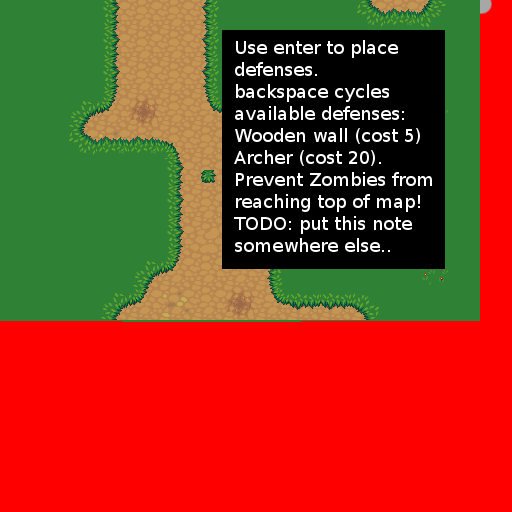
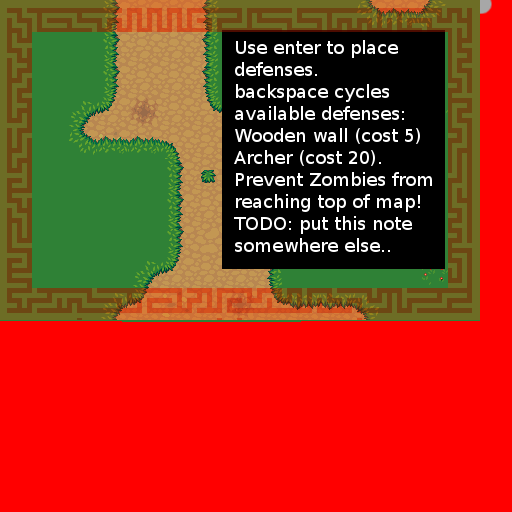
Added small health bars to Zombies in Zombie Defense. Made Zombie Defense a little easier, but restricted the zone in which the player can build (Player cannot build along the edges anymore).

Changed region(s): [[0.0, 0.0, 0.9375, 0.625]]

diff --git a/ZombieLord/src/com/talas777/ZombieLord/ZombieLord.java b/ZombieLord/src/com/talas777/ZombieLord/ZombieLord.java
@@ -190,6 +190,8 @@ public class ZombieLord implements ApplicationListener, InputProcessor {
 	private NinePatch dialogBackground;
 	private NinePatch announcementBackground;
 	
+	private NinePatch minibarHp;
+	
 	public Sound hitSound; // = Gdx.audio.newSound(Gdx.files.internal("data/sound/woodenstickattack.wav"));
 	public Sound biteSound; // = Gdx.audio.newSound(Gdx.files.internal("data/sound/zombiebite.wav"));
 	public Sound cutSound; // = Gdx.audio.newSound(Gdx.files.internal("data/sound/cut.wav"));
@@ -569,7 +571,9 @@ public class ZombieLord implements ApplicationListener, InputProcessor {
 		
 		
 		dialogBackground = new NinePatch(new Texture(Gdx.files.internal("data/ui/dialog_background.png")), 12, 12, 12, 12);
-		announcementBackground = new NinePatch(new Texture(Gdx.files.internal("data/ui/announcement_background.png")), 12, 12, 12, 12);
+		announcementBackground = new NinePatch(new Texture(Gdx.files.internal("data/ui/announcement_background.png")), 11, 11, 11, 11);
+		
+		minibarHp = new NinePatch(new Texture(Gdx.files.internal("data/ui/minibar_hp.png")), 2, 2, 2, 2);
 		
 		camera = new OrthographicCamera(w, h);
 		camera.position.set(0, 0, 0);
@@ -1944,9 +1948,9 @@ public class ZombieLord implements ApplicationListener, InputProcessor {
 			//fontBatch.end();
 			
 			// draw all the attackers..
-			// TODO: attacker health
 			this.tickZombieDefense(Gdx.graphics.getDeltaTime());
 			for(Attacker atk : this.zombieDefense.attackers){
+				minibarHp.draw(batch, atk.getX()*32+8, atk.getY()*32, (float)((atk.health+0.0)/atk.healthMax)*20, 4);
 				atk.draw(batch, Gdx.graphics.getDeltaTime());
 			}
 			for(Defender def : this.zombieDefense.defenders){
@@ -2102,25 +2106,25 @@ public class ZombieLord implements ApplicationListener, InputProcessor {
 		if(this.gameMode == MODE_ZOMBIE_DEFENSE){
 			// cursor control
 			if(keycode == Keys.UP){
-				if(this.zombieDefense.cursor.y >= this.zombieDefense.maxy)
+				if(this.zombieDefense.cursor.y >= this.zombieDefense.maxy-1)
 					System.out.println("nop");
 				else
 					this.zombieDefense.cursor.y ++;
 			}
 			if(keycode == Keys.DOWN){
-				if(this.zombieDefense.cursor.y <= this.zombieDefense.miny)
+				if(this.zombieDefense.cursor.y <= this.zombieDefense.miny+1)
 					System.out.println("nop");
 				else
 					this.zombieDefense.cursor.y --;
 			}
 			if(keycode == Keys.LEFT){
-				if(this.zombieDefense.cursor.x <= this.zombieDefense.minx)
+				if(this.zombieDefense.cursor.x <= this.zombieDefense.minx+1)
 					System.out.println("nop");
 				else
 					this.zombieDefense.cursor.x --;
 			}
 			if(keycode == Keys.RIGHT){
-				if(this.zombieDefense.cursor.x >= this.zombieDefense.maxx)
+				if(this.zombieDefense.cursor.x >= this.zombieDefense.maxx-1)
 					System.out.println("nop");
 				else
 					this.zombieDefense.cursor.x ++;

diff --git a/ZombieLord/src/com/talas777/ZombieLord/Minigames/TowerDefense/HomeTownDefense.java b/ZombieLord/src/com/talas777/ZombieLord/Minigames/TowerDefense/HomeTownDefense.java
@@ -36,7 +36,7 @@ public class HomeTownDefense extends ZombieDefense {
 		
 		this.maxx = 15-1;
 		this.maxy = 10-1;
-		this.money = 30;
+		this.money = 45;
 	}
 
 	@Override
@@ -44,7 +44,14 @@ public class HomeTownDefense extends ZombieDefense {
 		LinkedList<Attacker> attackers = new LinkedList<Attacker>();
 		for(int i = 0; i < waveNumber; i++){
 			Attacker attacker = new Attacker("data/zd/zombie.png", 10, 0, 1f);
-			attacker.setPos(i, 0);
+			
+			if(i > this.maxx*2)
+				attacker.setPos(i-this.maxx*2, -2);
+			else if(i > this.maxx)
+				attacker.setPos(i-this.maxx, -1);
+			else
+				attacker.setPos(i, 0);
+			
 			attackers.add(attacker);
 		}
 		return attackers;
@@ -78,14 +85,21 @@ public class HomeTownDefense extends ZombieDefense {
 	public LinkedList<Defender> getAvailableDefenses() {
 		// first level defenses = wall and archer
 		// TODO: traps?
-		Defender wall = new Defender("data/zd/wall.png",20,5,0,0,0,99);
 		Defender archer = new Defender("data/zd/archer.png",5,20,3,4,2,2.2f);
+		Defender wall = new Defender("data/zd/wall.png",20,5,0,0,0,99);
+		
 		
 		LinkedList<Defender> defenders = new LinkedList<Defender>();
-		defenders.add(wall);
 		defenders.add(archer);
+		defenders.add(wall);
+		
 		
 		return defenders;
+	}
+
+	@Override
+	public int getMoneyForWave(int waveNumber) {
+		return waveNumber+5;
 	}
 
 }

diff --git a/ZombieLord/src/com/talas777/ZombieLord/Minigames/ZombieDefense.java b/ZombieLord/src/com/talas777/ZombieLord/Minigames/ZombieDefense.java
@@ -114,6 +114,8 @@ public abstract class ZombieDefense {
 		return false;
 	}
 	
+	public abstract int getMoneyForWave(int waveNumber);
+	
 	/**
 	 * 
 	 * @param x position of attacker
@@ -223,6 +225,8 @@ public abstract class ZombieDefense {
 	public final void gotoNextWave(){
 		if(this.currentWaveNumber >= numWaves)
 			return;
+		
+		this.money += this.getMoneyForWave(this.currentWaveNumber);
 		
 		this.currentWaveNumber++;
 		System.out.println("Wave: "+this.currentWaveNumber);

diff --git a/ZombieLord/src/com/talas777/ZombieLord/Minigames/TowerDefense/Attacker.java b/ZombieLord/src/com/talas777/ZombieLord/Minigames/TowerDefense/Attacker.java
@@ -25,6 +25,7 @@ import com.talas777.ZombieLord.Minigames.ZombieDefense;
 
 public class Attacker {
 	public int health;
+	public final int healthMax;
 	public int mana;
 	private float tileDelay;
 	//private String appearance;
@@ -127,5 +128,6 @@ public class Attacker {
 		this.mana = mana;
 		this.tileDelay = movementDelay;
 		s = new Sprite(tex, 32, 32);
+		this.healthMax = health;
 	}
 }

diff --git a/ZombieLord/src/com/talas777/ZombieLord/Minigames/TowerDefense/Cursor.java b/ZombieLord/src/com/talas777/ZombieLord/Minigames/TowerDefense/Cursor.java
@@ -36,7 +36,7 @@ public class Cursor {
 	public Cursor(){
 		Texture tex = new Texture(Gdx.files.internal("data/zd/cursor.png"));
 		sprite = new Sprite(tex, 32, 32);
-		x = 0;
-		y = 9;
+		x = 1;
+		y = 8;
 	}
 }
